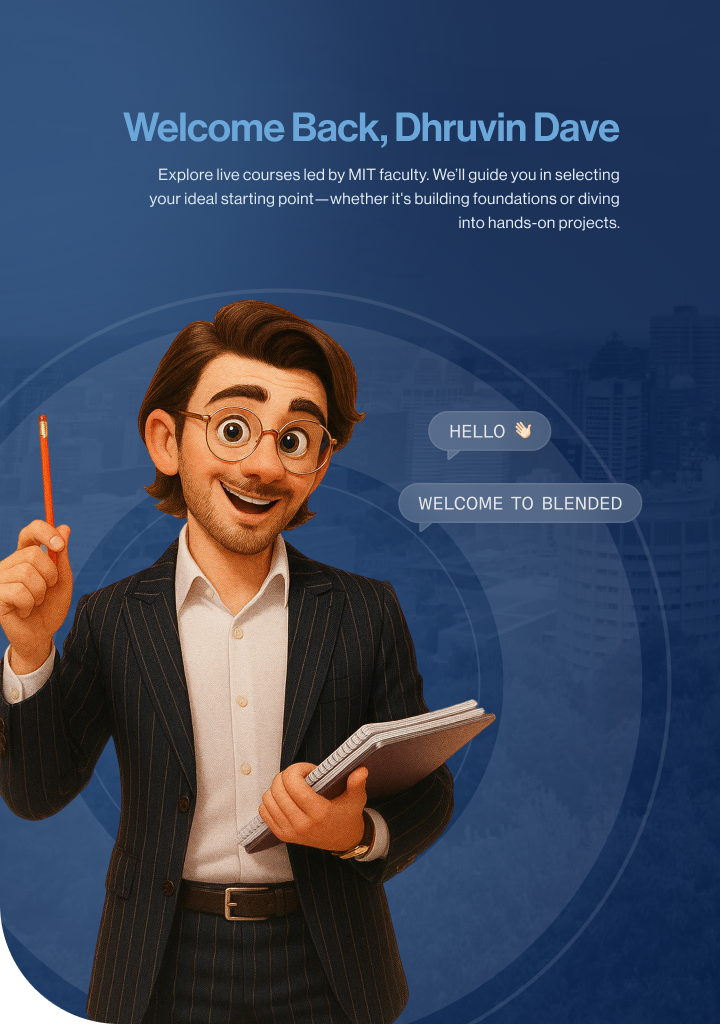
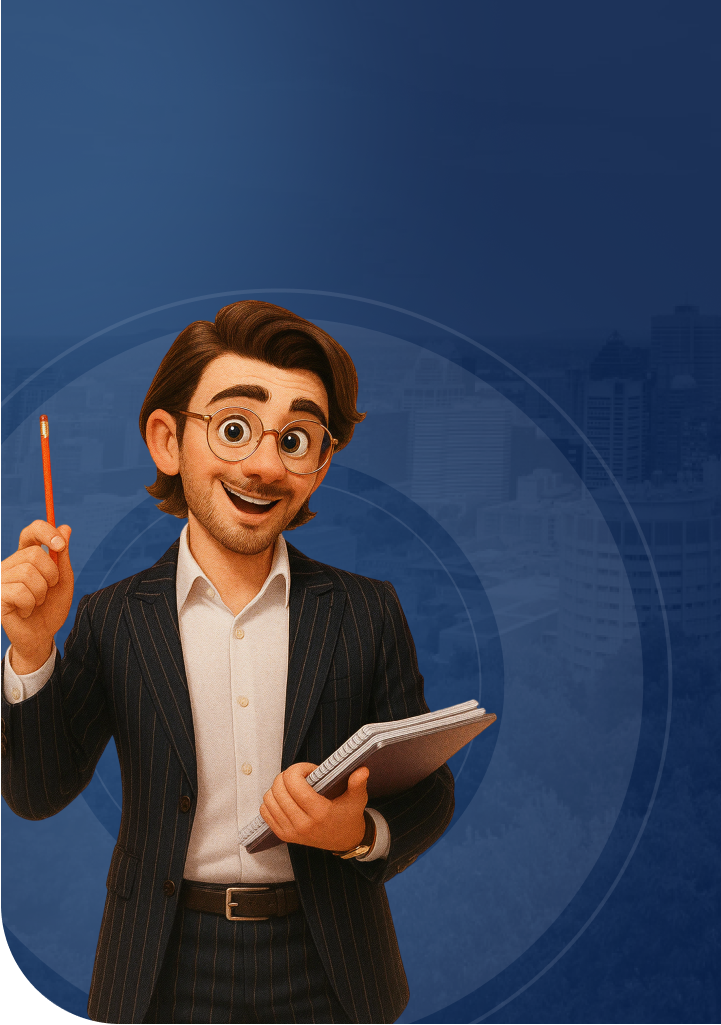
feat: set image text dynamic on LRF

diff --git a/src/components/pages/LRF/Login/ImageSection.jsx b/src/components/pages/LRF/Login/ImageSection.jsx
@@ -1,13 +1,52 @@
 import PropTypes from 'prop-types';
 
-function ImageSection({ imageSrc, altText = 'Login' }) {
+
+function ChatBubble({ text }) {
   return (
-    <div className='w-full h-full'>
+    <div className='bg-blended-blue_8/20 backdrop-blur-sm rounded-2xl px-4 py-2 border border-white/30 shadow-lg relative'>
+      <p className='text-blended-gray_7 text-sm lg:text-base font-medium'>
+        {text}
+      </p>
+      <div className='absolute bottom-0 left-4 w-0 h-0 border-r-[14px] border-t-[14px] border-l-0 border-l-transparent border-r-transparent border-t-blended-blue_8/20  transform translate-y-full'></div>
+    </div>
+  );
+}
+function ImageSection({ 
+  imageSrc, 
+  altText = 'Login',
+  title = '',
+  subtitle = '',
+  titleClass = 'text-left',
+  subtitleClass = 'text-left',
+}) {
+  return (
+    <div className='w-full h-full relative'>
       <img
         src={imageSrc}
         alt={altText}
         className='w-full h-full object-cover lg:object-fill'
       />
+      
+      {/* Text Overlay */}
+      <div className='absolute top-0 left-0 right-0 bg-gradient-to-b from-blue-900/80 to-blue-900/40 p-8 lg:p-12'>
+        <div className={`max-w-[29rem] mx-auto flex flex-col`}>
+          <h1 className={`text-blended-blue_3 text-2xl lg:text-3xl font-semibold mb-4 ${titleClass}`}>
+            {title}
+          </h1>
+          <p className={`text-white/90 text-sm lg:text-[13px] font-light ${subtitleClass}`}>
+            {subtitle}
+          </p>
+        </div>
+      </div>
+
+      {/* Chat Bubbles */}
+      <div className="absolute top-[45%] right-8 max-w-[215px] flex flex-col items-center justify-center space-y-6">
+        {/* Hello Bubble */}
+        <ChatBubble text="HELLO 👋🏻" />
+
+        {/* Welcome to Blended Bubble */}
+        <ChatBubble text="WELCOME TO BLENDED" />
+      </div>
     </div>
   );
 }
@@ -15,6 +54,9 @@ function ImageSection({ imageSrc, altText = 'Login' }) {
 ImageSection.propTypes = {
   imageSrc: PropTypes.string.isRequired,
   altText: PropTypes.string,
+  title: PropTypes.string,
+  subtitle: PropTypes.string,
+  alignment: PropTypes.string,
 };
 
 export default ImageSection;

diff --git a/src/components/pages/LRF/Login/WebAppLoginLayout.jsx b/src/components/pages/LRF/Login/WebAppLoginLayout.jsx
@@ -1,6 +1,6 @@
 import PropTypes from 'prop-types';
 import ImageSection from './ImageSection.jsx';
-import webappLoginFrame from '@/assets/images/svg/user_login_image.png';
+import webappLoginFrame from '@/assets/images/svg/student_login_frame.png';
 
 function WebAppLoginLayout({
   imageSrc = webappLoginFrame,
@@ -10,6 +10,35 @@ function WebAppLoginLayout({
   onFormChange,
   activeForm,
 }) {
+  // Define text content based on form type (only if activeForm is provided and no explicit title/subtitle)
+  const getTextContent = () => {
+    if (activeForm === 'signup') {
+      return {
+        title: 'Ready to Start?',
+        subtitle: 'We offer the best Blended Learning experience to apply what you have learned.',
+        titleClass: 'text-right',
+        subtitleClass: 'text-right max-w-[19rem] self-end',
+      };
+    }
+    // Default login text
+    return {
+      title: 'Welcome Back, Dhruvin Dave',
+      subtitle: 'Explore live courses led by MIT faculty. We\'ll guide you in selecting your ideal starting point—whether it\'s building foundations or diving into hands-on projects.',
+      titleClass: 'text-left',
+      subtitleClass: 'text-left'
+    };
+  };
+
+  // Use dynamic text only if activeForm is provided and no explicit title/subtitle props
+  const textContent = activeForm ? getTextContent() : {
+    title: '',
+    subtitle: '',
+    titleClass: '',
+    subtitleClass: ''
+  };
+
+  const { title: finalTitle, subtitle: finalSubtitle, titleClass, subtitleClass } = textContent;
+
   return (
     <div className='min-h-screen flex flex-col lg:flex-row'>
       {/* Left Column - Login Form */}
@@ -23,7 +52,14 @@ function WebAppLoginLayout({
 
       {/* Right Column - Image */}
       <div className='flex-1 bg-blended-gray_4 h-64 lg:h-screen lg:w-auto'>
-        <ImageSection imageSrc={imageSrc} altText={altText} />
+        <ImageSection 
+          imageSrc={imageSrc} 
+          altText={altText}
+          title={finalTitle}
+          subtitle={finalSubtitle}
+          titleClass={titleClass}
+          subtitleClass={subtitleClass}
+        />
       </div>
     </div>
   );

diff --git a/src/components/pages/LRF/ForgotPassword/ForgotPasswordLayout.jsx b/src/components/pages/LRF/ForgotPassword/ForgotPasswordLayout.jsx
@@ -4,9 +4,9 @@ import webappLoginFrame from '@/assets/images/svg/student_login_frame.png';
 import teacherLoginFrame from '@/assets/images/svg/teacher_login_frame.png';
 import ROLE from '@/utils/constant/role';
 
-function OtpVerificationLayout({
+function ForgotPasswordLayout({
   imageSrc,
-  altText = 'OTP Verification',
+  altText = 'Forgot Password',
   formComponent: FormComponent,
   formProps = {},
 }) {
@@ -15,9 +15,10 @@ function OtpVerificationLayout({
   const defaultImageSrc =
     role === ROLE[1].value ? teacherLoginFrame : webappLoginFrame;
   const finalImageSrc = imageSrc || defaultImageSrc;
+
   return (
     <div className='min-h-screen flex flex-col lg:flex-row'>
-      {/* Left Column - OTP Form */}
+      {/* Left Column - Forgot Password Form */}
       <div className='flex-1 w-full flex flex-col h-screen lg:h-screen relative'>
         <FormComponent {...formProps} />
       </div>
@@ -37,11 +38,11 @@ function OtpVerificationLayout({
   );
 }
 
-OtpVerificationLayout.propTypes = {
+ForgotPasswordLayout.propTypes = {
   imageSrc: PropTypes.string,
   altText: PropTypes.string,
   formComponent: PropTypes.elementType.isRequired,
   formProps: PropTypes.object,
 };
 
-export default OtpVerificationLayout;
+export default ForgotPasswordLayout;

diff --git a/src/pages/ForgotPassword.jsx b/src/pages/ForgotPassword.jsx
@@ -1,5 +1,5 @@
 import { useLocation } from 'react-router-dom';
-import WebAppLoginLayout from '@/components/pages/LRF/Login/WebAppLoginLayout';
+import ForgotPasswordLayout from '@/components/pages/LRF/ForgotPassword/ForgotPasswordLayout';
 import ForgotPasswordForm from '@/components/pages/LRF/ForgotPassword/ForgotPasswordForm';
 import { forgotPasswordSchema } from '@/schemas/forgotPasswordSchema';
 import { ZodFormProvider } from '@/contexts/ZodFormContext';
@@ -7,7 +7,7 @@ import { useNavigate } from 'react-router-dom';
 import useSWRMutation from 'swr/mutation';
 import { forgotPassword as forgotPasswordApi } from '@/services/authService';
 import ROLE from '@/utils/constant/role';
-import studentLoginFrame from '@/assets/images/svg/user_login_image.png';
+import studentLoginFrame from '@/assets/images/svg/student_login_frame.png';
 import teacherLoginFrame from '@/assets/images/svg/teacher_login_frame.png';
 import { showToast } from '@/lib/toast';
 
@@ -54,7 +54,7 @@ export default function ForgotPassword() {
 
   return (
     <ZodFormProvider schema={forgotPasswordSchema} onSubmit={onSubmit}>
-      <WebAppLoginLayout
+      <ForgotPasswordLayout
         formComponent={ForgotPasswordForm}
         formProps={{ role }}
         imageSrc={imageSrc}

diff --git a/src/components/pages/LRF/ResetPassword/ResetPasswordLayout.jsx b/src/components/pages/LRF/ResetPassword/ResetPasswordLayout.jsx
@@ -1,6 +1,6 @@
 import PropTypes from 'prop-types';
 import ImageSection from '../Login/ImageSection.jsx';
-import webappLoginFrame from '@/assets/images/svg/user_login_image.png';
+import webappLoginFrame from '@/assets/images/svg/student_login_frame.png';
 import teacherLoginFrame from '@/assets/images/svg/teacher_login_frame.png';
 import ROLE from '@/utils/constant/role';
 
@@ -25,7 +25,14 @@ function ResetPasswordLayout({
 
       {/* Right Column - Image */}
       <div className='flex-1 bg-blended-gray_4 h-64 lg:h-screen lg:w-auto'>
-        <ImageSection imageSrc={finalImageSrc} altText={altText} />
+        <ImageSection 
+          imageSrc={finalImageSrc} 
+          altText={altText}
+          title='Welcome Back, Dhruvin Dave'
+          subtitle="Explore live courses led by MIT faculty. We'll guide you in selecting your ideal starting point—whether it's building foundations or diving into hands-on projects."
+          titleClass='text-left'
+          subtitleClass='text-left'
+        />
       </div>
     </div>
   );

diff --git a/tailwind.config.js b/tailwind.config.js
@@ -48,6 +48,7 @@ export default {
           blue_5: '#D5E5F3',
           blue_6: '#050B17',
           blue_7: '#071F4A',
+          blue_8: '#E6E9ED',
           gray_1: '#B4B6B9',
           gray_2: '#E5E7EB',
           gray_3: '#9CA3AF',

diff --git a/src/pages/TeacherLogin.jsx b/src/pages/TeacherLogin.jsx
@@ -32,6 +32,7 @@ export default function TeacherLogin() {
         }}
         imageSrc={teacherLoginFrame}
         altText='Teacher Login'
+        activeForm='login'
       />
     </ZodFormProvider>
   );
